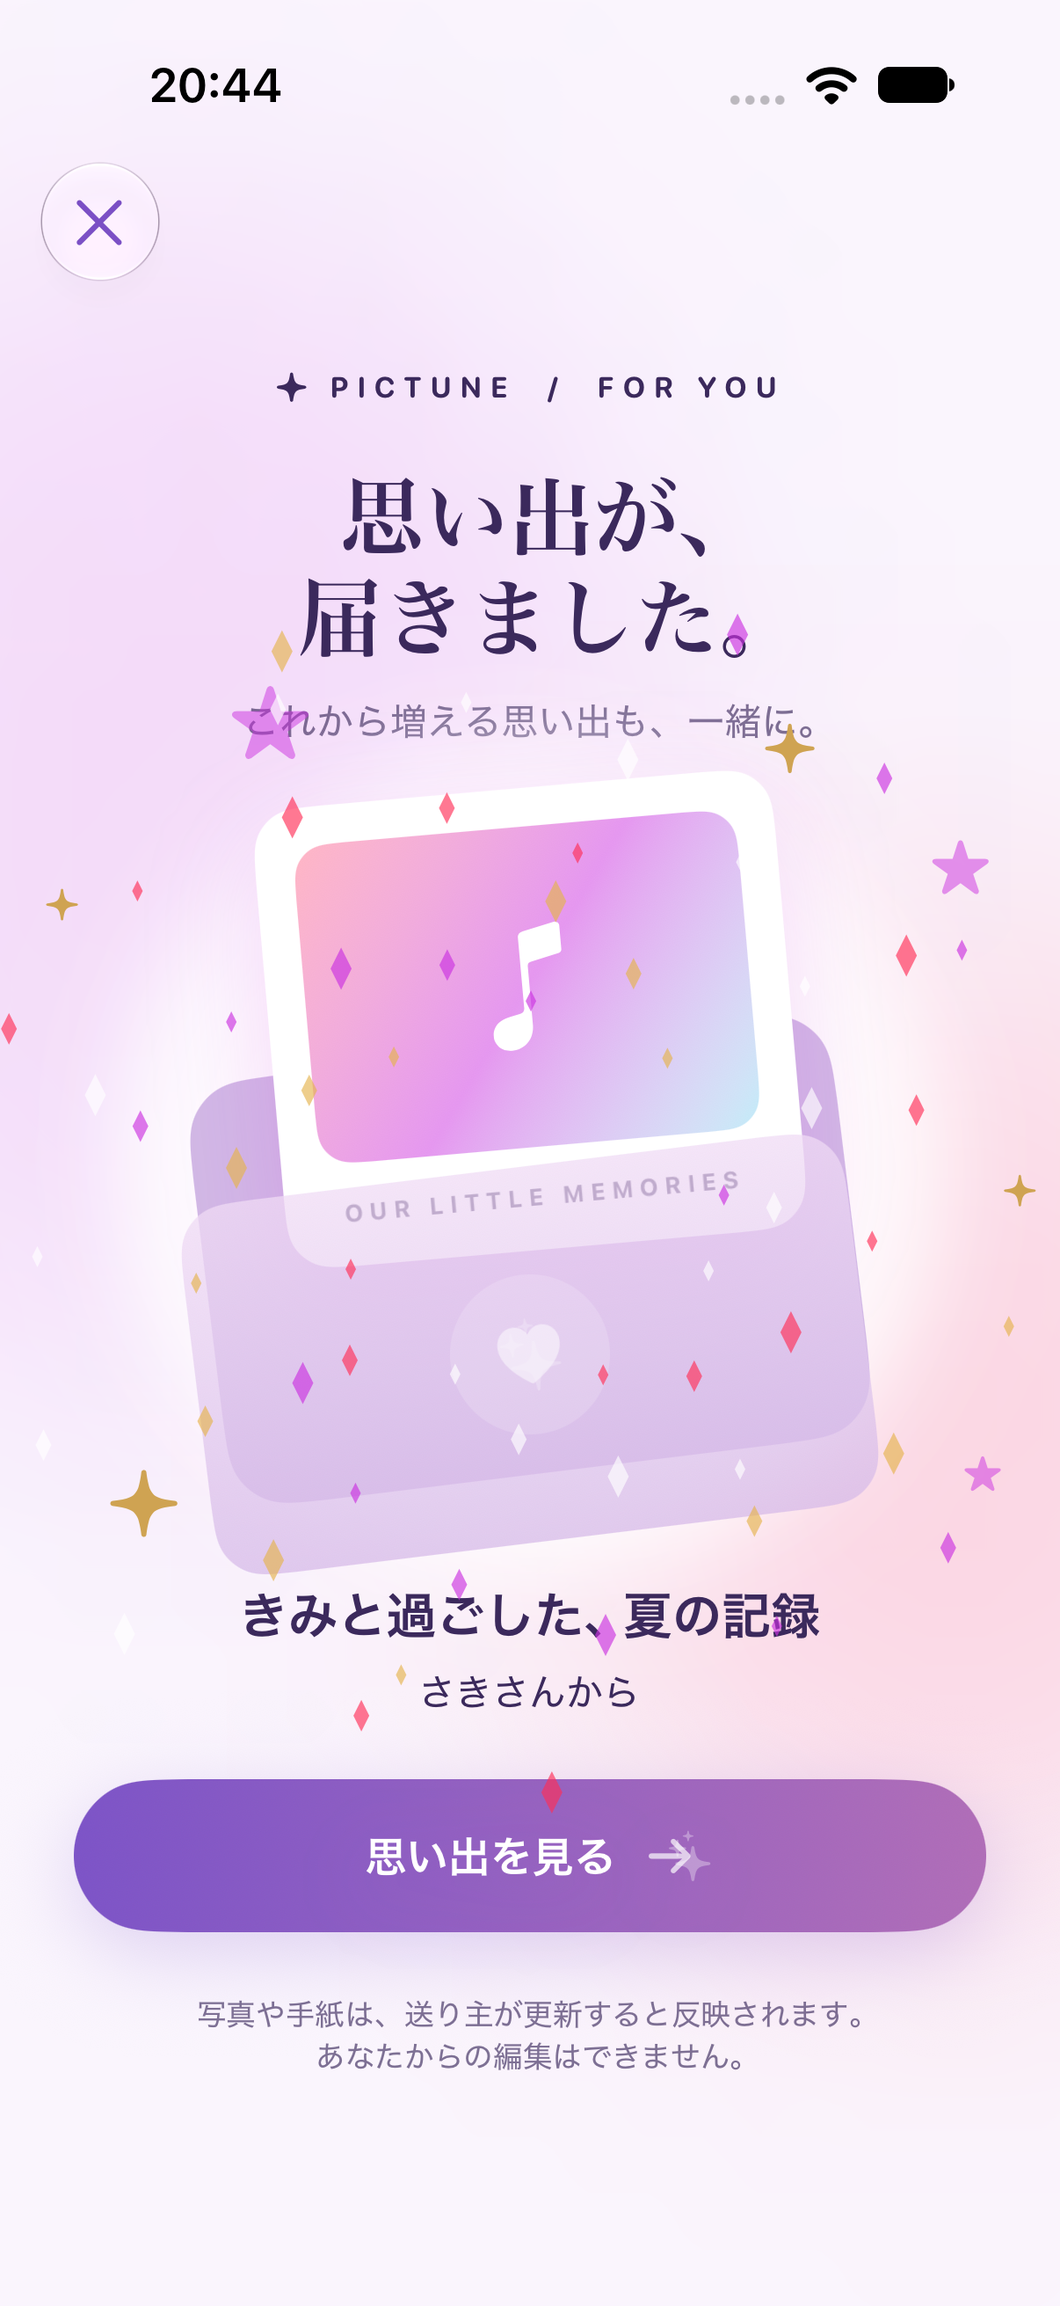
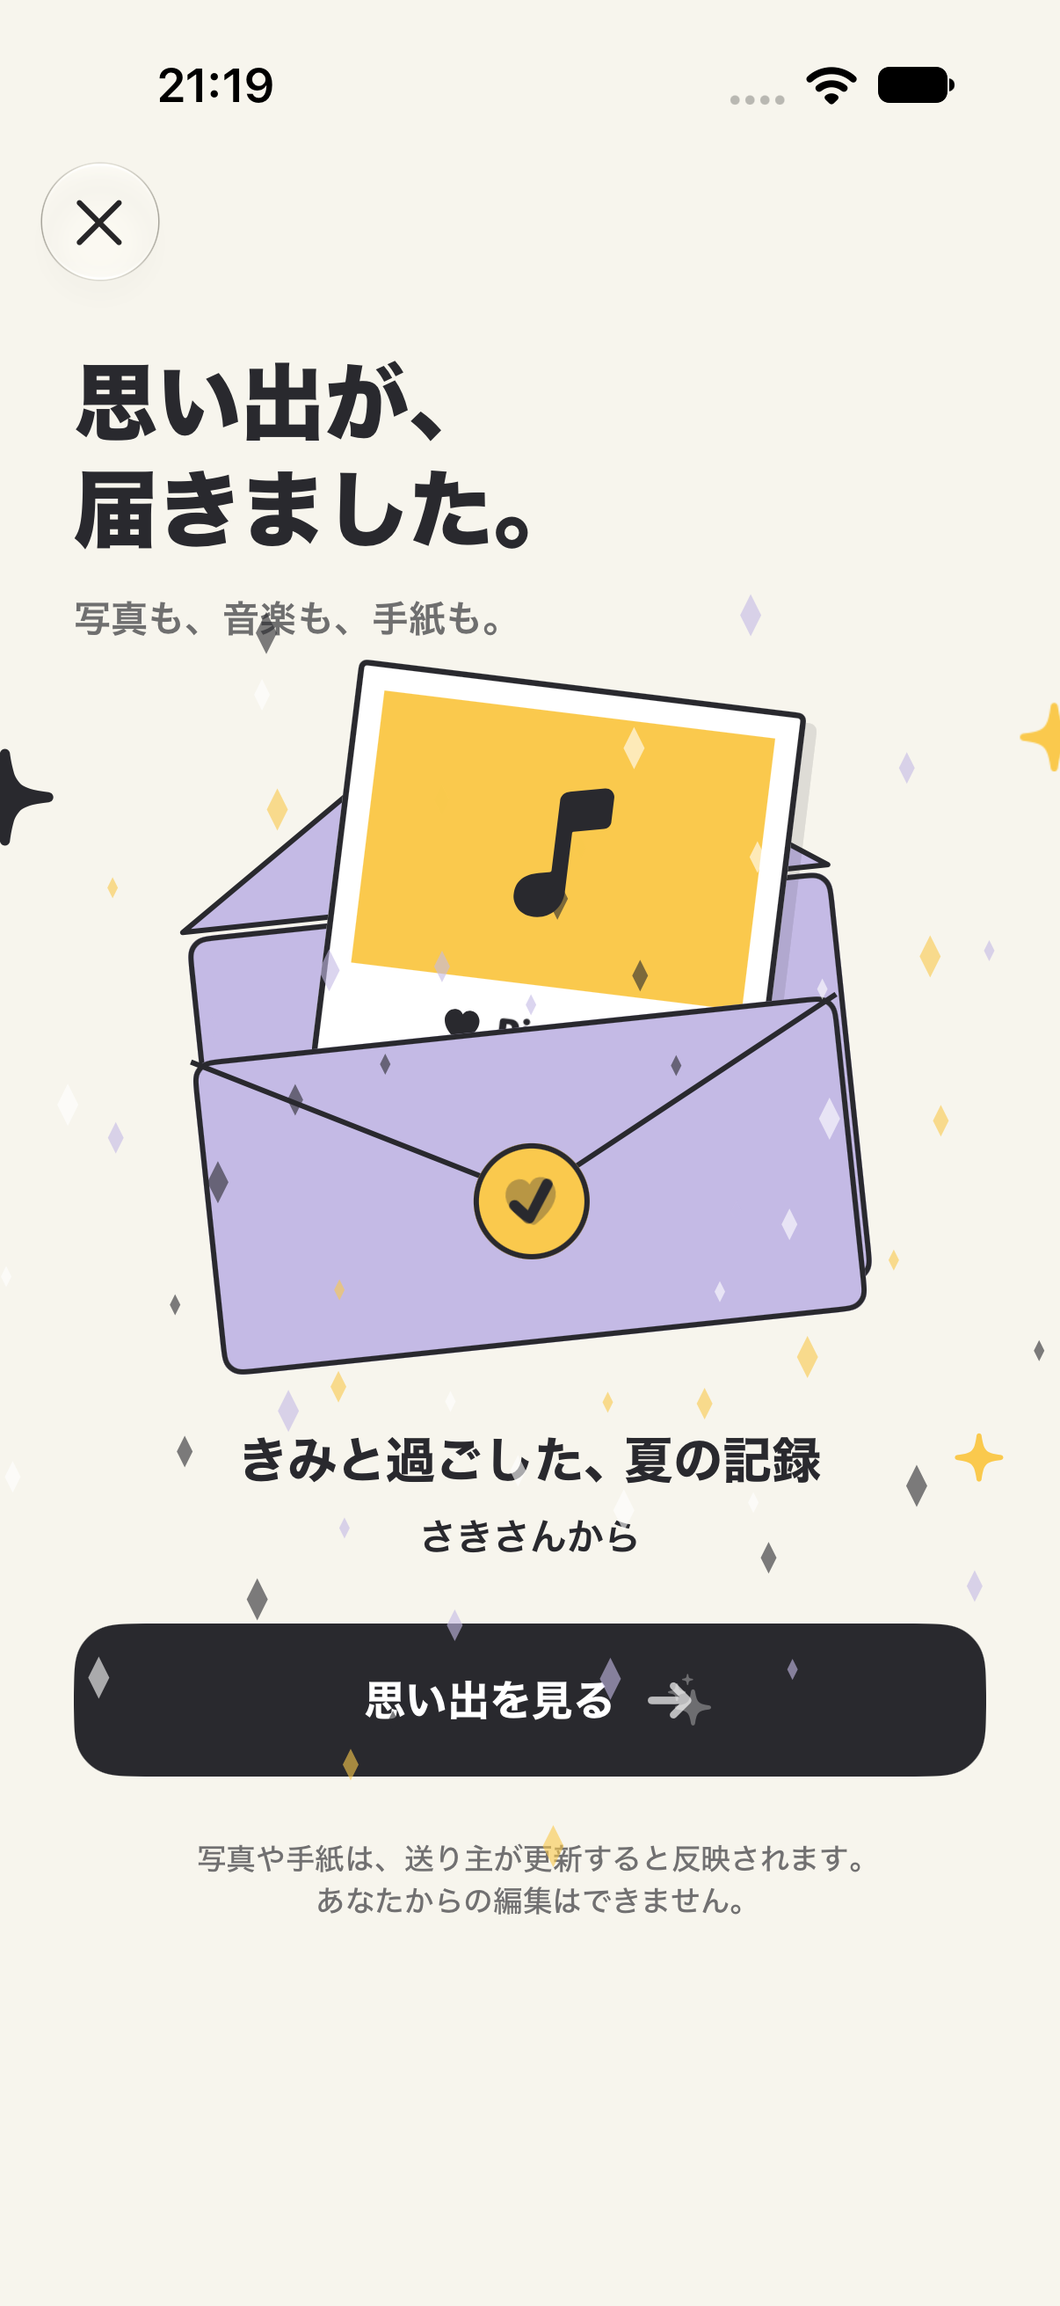
招待画面を太いゴシック体と紙の封筒のデザインに調整

diff --git a/sotsugyo/View/FolderInvitationView.swift b/sotsugyo/View/FolderInvitationView.swift
@@ -1,8 +1,10 @@
 import SwiftUI
 
 private enum GiftPalette {
-    static let ink = Color(red: 0.23, green: 0.16, blue: 0.36)
-    static let purple = Color(red: 0.49, green: 0.33, blue: 0.78)
+    static let ink = Color(red: 0.16, green: 0.16, blue: 0.18)
+    static let paper = Color(red: 0.97, green: 0.96, blue: 0.93)
+    static let lilac = Color(red: 0.77, green: 0.73, blue: 0.90)
+    static let yellow = Color(red: 0.98, green: 0.79, blue: 0.30)
 }
 
 struct FolderInvitationView: View {
@@ -24,29 +26,28 @@ struct FolderInvitationView: View {
                 GiftBackdrop()
                 ScrollView {
                     VStack(spacing: 24) {
-                        Label("PICTUNE  /  FOR YOU", systemImage: "sparkle")
-                            .font(.system(size: 11, weight: .bold, design: .rounded)).tracking(3)
-                            .padding(.top, 24)
-                        VStack(spacing: 10) {
-                            Text(opened ? "思い出が、\n届きました。" : "あなたへ、\n思い出の贈りもの。")
-                                .font(.system(size: 32, weight: .semibold, design: .serif))
-                                .multilineTextAlignment(.center)
+                        VStack(alignment: .leading, spacing: 12) {
+                            Text(opened ? "思い出が、\n届きました。" : "思い出が\n届いています。")
+                                .font(.system(size: 34, weight: .black, design: .rounded))
+                                .multilineTextAlignment(.leading)
                                 .accessibilityIdentifier("invite.heading")
-                            Text(opened ? "これから増える思い出も、一緒に。" : "写真と音楽、伝えたい気持ちを込めて。")
-                                .font(.subheadline).foregroundStyle(GiftPalette.ink.opacity(0.65))
+                            Text(opened ? "写真も、音楽も、手紙も。" : "写真と音楽、手紙をひとつに。")
+                                .font(.subheadline.weight(.semibold)).foregroundStyle(GiftPalette.ink.opacity(0.65))
                         }
+                        .frame(maxWidth: .infinity, alignment: .leading)
+                        .padding(.top, 16)
                         GiftEnvelope(opened: opened, reduceMotion: reduceMotion)
-                            .frame(height: 270)
+                            .frame(height: 250)
                         if let invitation = model.invitation {
                             VStack(spacing: 8) {
-                                Text(invitation.folder.title).font(.title3.bold()).multilineTextAlignment(.center)
-                                Text("\(invitation.senderName)さんから").font(.subheadline)
+                                Text(invitation.folder.title).font(.system(.title3, design: .rounded, weight: .heavy)).multilineTextAlignment(.center)
+                                Text("\(invitation.senderName)さんから").font(.subheadline.weight(.semibold))
                             }
                             .padding(.horizontal)
                         }
                         controls
                         Text("写真や手紙は、送り主が更新すると反映されます。\nあなたからの編集はできません。")
-                            .font(.caption).foregroundStyle(GiftPalette.ink.opacity(0.65))
+                            .font(.caption.weight(.medium)).foregroundStyle(GiftPalette.ink.opacity(0.65))
                             .multilineTextAlignment(.center)
                     }
                     .padding(.horizontal, 28).padding(.bottom, 32)
@@ -74,13 +75,13 @@ struct FolderInvitationView: View {
             .sensoryFeedback(.success, trigger: opened)
             .interactiveDismissDisabled(model.isWorking && model.invitation != nil)
         }
-        .tint(GiftPalette.purple)
+        .tint(GiftPalette.ink)
     }
 
     @ViewBuilder private var controls: some View {
         if let error = model.error {
             VStack(spacing: 12) {
-                Text(error).font(.subheadline).multilineTextAlignment(.center).accessibilityIdentifier("invite.error")
+                Text(error).font(.subheadline.weight(.medium)).multilineTextAlignment(.center).accessibilityIdentifier("invite.error")
                 Button("もう一度試す") { Task { if model.invitation == nil { await model.load(link) } else { await model.receive() } } }
             }
         } else if model.invitation == nil {
@@ -94,10 +95,9 @@ struct FolderInvitationView: View {
                     Text(model.isWorking ? "受け取り中…" : opened ? "思い出を見る" : "開いて受け取る")
                     if !model.isWorking { Image(systemName: opened ? "arrow.right" : "sparkles") }
                 }
-                .font(.headline).frame(maxWidth: .infinity, minHeight: 58)
+                .font(.system(.headline, design: .rounded, weight: .heavy)).frame(maxWidth: .infinity, minHeight: 58)
                 .foregroundStyle(.white)
-                .background(LinearGradient(colors: [GiftPalette.purple, Color(red: 0.69, green: 0.43, blue: 0.72)], startPoint: .leading, endPoint: .trailing), in: Capsule())
-                .shadow(color: GiftPalette.purple.opacity(0.23), radius: 15, y: 8)
+                .background(GiftPalette.ink, in: RoundedRectangle(cornerRadius: 18))
             }
             .buttonStyle(.plain).disabled(model.isWorking)
             .accessibilityIdentifier("invite.open")
@@ -121,21 +121,21 @@ struct FolderInviteShareView: View {
                 GiftBackdrop()
                 ScrollView {
                     VStack(spacing: 24) {
-                        Label("PICTUNE  /  WITH LOVE", systemImage: "sparkle")
-                            .font(.system(size: 11, weight: .bold)).tracking(3).padding(.top, 30)
-                        Text("離れていても、\n思い出は一緒に。")
-                            .font(.system(size: 32, weight: .semibold, design: .serif)).multilineTextAlignment(.center)
-                        GiftEnvelope(opened: false, reduceMotion: true).scaleEffect(0.88).frame(height: 240)
-                        Text(folderName).font(.title3.bold())
+                        Text("思い出を\nリンクで送る。")
+                            .font(.system(size: 34, weight: .black, design: .rounded))
+                            .frame(maxWidth: .infinity, alignment: .leading)
+                            .padding(.top, 12)
+                        GiftEnvelope(opened: false, reduceMotion: true).scaleEffect(0.88).frame(height: 210)
+                        Text(folderName).font(.system(.title3, design: .rounded, weight: .heavy))
                         Text("リンクを送って、写真・音楽・手紙を共有できます。\n受け取った後の変更も、相手に届きます。")
-                            .font(.subheadline).multilineTextAlignment(.center)
+                            .font(.subheadline.weight(.medium)).multilineTextAlignment(.center)
                         if model.isWorking { ProgressView("リンクを準備しています…") }
                         else if let invitation = model.invitation, !model.isRevoked {
                             ShareLink(item: invitation.link.url, subject: Text("\(folderName)への招待"), message: Text("PicTuneで思い出を共有しましょう。")) {
                                 Label("招待リンクを送る", systemImage: "square.and.arrow.up").foregroundStyle(.white)
-                                    .font(.headline).frame(maxWidth: .infinity, minHeight: 54)
+                                    .font(.system(.headline, design: .rounded, weight: .heavy)).frame(maxWidth: .infinity, minHeight: 54)
                             }
-                            .buttonStyle(.borderedProminent).buttonBorderShape(.capsule)
+                            .buttonStyle(.borderedProminent).buttonBorderShape(.roundedRectangle(radius: 18))
                             .accessibilityIdentifier("invite.share")
                             Text("\(invitation.expiresAt.formatted(date: .abbreviated, time: .omitted))まで参加できます。\nリンクを知っているログイン済みの方が閲覧できます。")
                                 .font(.caption).multilineTextAlignment(.center)
@@ -144,13 +144,13 @@ struct FolderInviteShareView: View {
                         } else {
                             if model.isRevoked { Text("リンクを無効にしました。") }
                             Button(model.isRevoked ? "新しい招待リンクを作る" : "招待リンクを作る") { Task { await model.create(folderID: folderID) } }
-                                .buttonStyle(.borderedProminent).controlSize(.large)
+                                .font(.headline.weight(.heavy)).buttonStyle(.borderedProminent).controlSize(.large)
                         }
                         if let error = model.error { Text(error).font(.footnote).foregroundStyle(.red) }
                     }.padding(28).frame(maxWidth: 540).frame(maxWidth: .infinity)
                 }
             }
-            .foregroundStyle(GiftPalette.ink).tint(GiftPalette.purple)
+            .foregroundStyle(GiftPalette.ink).tint(GiftPalette.ink)
             .navigationTitle("思い出を贈る").navigationBarTitleDisplayMode(.inline)
             .toolbar { ToolbarItem(placement: .cancellationAction) { Button("閉じる") { dismiss() }.disabled(model.isWorking) } }
             .confirmationDialog("招待リンクを無効にしますか？", isPresented: $confirmRevoke, titleVisibility: .visible) {
@@ -163,12 +163,7 @@ struct FolderInviteShareView: View {
 
 private struct GiftBackdrop: View {
     var body: some View {
-        ZStack {
-            Color(red: 0.98, green: 0.96, blue: 0.99)
-            Ellipse().fill(Color.purple.opacity(0.13)).frame(width: 360, height: 460).blur(radius: 60).offset(x: -130, y: -130)
-            Ellipse().fill(Color.pink.opacity(0.16)).frame(width: 300, height: 380).blur(radius: 70).offset(x: 160, y: 100)
-            Circle().fill(Color.white.opacity(0.8)).frame(width: 260).blur(radius: 40)
-        }.ignoresSafeArea()
+        GiftPalette.paper.ignoresSafeArea()
     }
 }
 
@@ -177,38 +172,78 @@ private struct GiftEnvelope: View {
     let reduceMotion: Bool
     var body: some View {
         ZStack {
-            Circle().fill(.white.opacity(0.8)).frame(width: 220, height: 220).blur(radius: 12).scaleEffect(opened ? 1.4 : 1)
-            RoundedRectangle(cornerRadius: 24).fill(Color(red: 0.82, green: 0.72, blue: 0.9))
-                .frame(width: 246, height: 162).rotationEffect(.degrees(-7)).offset(y: 36)
-            VStack(spacing: 12) {
+            // Flat paper layers keep the opening motion legible without a glowing backdrop.
+            RoundedRectangle(cornerRadius: 8)
+                .fill(GiftPalette.lilac)
+                .overlay { RoundedRectangle(cornerRadius: 8).strokeBorder(GiftPalette.ink, lineWidth: 2) }
+                .frame(width: 246, height: 156)
+                .rotationEffect(.degrees(-6)).offset(y: 28)
+            EnvelopeFlap()
+                .fill(GiftPalette.lilac)
+                .overlay { EnvelopeFlap().stroke(GiftPalette.ink, style: StrokeStyle(lineWidth: 2, lineJoin: .round)) }
+                .frame(width: 246, height: 84)
+                .rotation3DEffect(.degrees(opened ? 180 : 0), axis: (x: 1, y: 0, z: 0), anchor: .top)
+                .rotationEffect(.degrees(-6)).offset(x: -5, y: -10)
+            VStack(spacing: 10) {
                 ZStack {
-                    RoundedRectangle(cornerRadius: 12).fill(LinearGradient(colors: [.pink.opacity(0.35), .purple.opacity(0.5), .cyan.opacity(0.3)], startPoint: .topLeading, endPoint: .bottomTrailing))
-                    Image(systemName: "music.note").font(.system(size: 44, weight: .light)).foregroundStyle(.white)
-                }.frame(height: 108)
-                Text("OUR LITTLE MEMORIES").font(.system(size: 8, weight: .bold)).tracking(2)
+                    Rectangle().fill(GiftPalette.yellow)
+                    Image(systemName: "music.note")
+                        .font(.system(size: 46, weight: .black)).foregroundStyle(GiftPalette.ink)
+                }.frame(height: 96)
+                HStack(spacing: 5) {
+                    Image(systemName: "heart.fill")
+                    Text("PicTune").fontWeight(.black)
+                }.font(.system(size: 12, weight: .bold, design: .rounded))
             }
-            .padding(13).background(.white, in: RoundedRectangle(cornerRadius: 16))
-            .frame(width: 176).rotationEffect(.degrees(opened ? -5 : 5))
-            .offset(y: opened ? -48 : 12).scaleEffect(opened ? 1.12 : 0.9)
-            .shadow(color: .purple.opacity(0.18), radius: 20, y: 12)
-            RoundedRectangle(cornerRadius: 20)
-                .fill(LinearGradient(colors: [Color(red: 0.94, green: 0.86, blue: 0.96), Color(red: 0.84, green: 0.73, blue: 0.91)], startPoint: .top, endPoint: .bottom))
-                .frame(width: 254, height: 142).overlay {
-                    Image(systemName: opened ? "heart.fill" : "sparkles")
-                        .font(.system(size: 25, weight: .light)).foregroundStyle(.white)
-                        .padding(17).background(.white.opacity(0.22), in: Circle())
-                }.rotationEffect(.degrees(-7)).offset(y: opened ? 72 : 68)
-                .opacity(opened ? 0.75 : 1)
-            ForEach(0..<7) { index in
-                Image(systemName: index.isMultiple(of: 2) ? "sparkle" : "star.fill")
-                    .font(.system(size: CGFloat(9 + index % 3 * 5)))
-                    .foregroundStyle(index.isMultiple(of: 2) ? Color(red: 0.81, green: 0.64, blue: 0.32) : Color.purple.opacity(0.5))
-                    .offset(x: CGFloat([-126, 116, -104, 122, 70, -70, 132][index]), y: CGFloat([-70, -80, 91, 83, -112, -119, 7][index]))
-                    .scaleEffect(opened && !reduceMotion ? 1.4 : 1)
+            .padding(10)
+            .background(.white, in: RoundedRectangle(cornerRadius: 3))
+            .overlay { RoundedRectangle(cornerRadius: 3).strokeBorder(GiftPalette.ink, lineWidth: 2) }
+            .frame(width: 158)
+            .rotationEffect(.degrees(opened ? 7 : 3))
+            .offset(x: opened ? 10 : 0, y: opened ? -52 : 5)
+            .scaleEffect(opened ? 1.08 : 0.94)
+            .shadow(color: GiftPalette.ink.opacity(0.12), radius: 0, x: 4, y: 4)
+            RoundedRectangle(cornerRadius: 8)
+                .fill(GiftPalette.lilac)
+                .overlay {
+                    Path { path in
+                        path.move(to: CGPoint(x: 0, y: 0))
+                        path.addLine(to: CGPoint(x: 123, y: 64))
+                        path.addLine(to: CGPoint(x: 246, y: 0))
+                    }.stroke(GiftPalette.ink, lineWidth: 2)
+                }
+                .overlay { RoundedRectangle(cornerRadius: 8).strokeBorder(GiftPalette.ink, lineWidth: 2) }
+                .overlay {
+                    Image(systemName: opened ? "checkmark" : "heart.fill")
+                        .font(.system(size: 18, weight: .black))
+                        .frame(width: 44, height: 44)
+                        .background(GiftPalette.yellow, in: Circle())
+                        .overlay { Circle().strokeBorder(GiftPalette.ink, lineWidth: 2) }
+                        .offset(y: 6)
+                }
+                .frame(width: 246, height: 120)
+                .rotationEffect(.degrees(-6)).offset(y: 57)
+            ForEach(0..<3) { index in
+                Image(systemName: "sparkle")
+                    .font(.system(size: CGFloat([24, 17, 12][index]), weight: .bold))
+                    .foregroundStyle(index == 0 ? GiftPalette.ink : GiftPalette.yellow)
+                    .offset(x: CGFloat([-132, 132, 113][index]), y: CGFloat([-60, -75, 106][index]))
+                    .scaleEffect(opened && !reduceMotion ? 1.5 : 1)
             }
         }
         .accessibilityElement(children: .ignore)
         .accessibilityLabel(opened ? "開いた思い出の封筒" : "思い出を包んだ封筒")
+    }
+}
+
+private struct EnvelopeFlap: Shape {
+    func path(in rect: CGRect) -> Path {
+        Path { path in
+            path.move(to: CGPoint(x: rect.minX, y: rect.minY))
+            path.addLine(to: CGPoint(x: rect.midX, y: rect.maxY))
+            path.addLine(to: CGPoint(x: rect.maxX, y: rect.minY))
+            path.closeSubpath()
+        }
     }
 }
 
@@ -233,7 +268,7 @@ private struct GiftSparkles: View {
                     star.addLine(to: CGPoint(x: point.x, y: point.y + radius * 2))
                     star.addLine(to: CGPoint(x: point.x - radius, y: point.y)); star.closeSubpath()
                     context.opacity = max(0, 1 - elapsed / 2.5)
-                    context.fill(star, with: .color([Color.purple, .pink, Color(red: 0.9, green: 0.7, blue: 0.3), .white][index % 4]))
+                    context.fill(star, with: .color([GiftPalette.lilac, GiftPalette.yellow, GiftPalette.ink, .white][index % 4]))
                 }
             }
         }

diff --git a/docs/verification/invite-links/README.md b/docs/verification/invite-links/README.md
@@ -4,6 +4,8 @@
 
 ## 画面
 
+招待・送信画面は太いゴシック体、無地の背景、黒いボタンへ調整しました。英字の飾り見出しとグラデーションをなくし、輪郭のある紙の封筒・チェキで表現しています。開封時のカードの動きと粒子の演出は残しています。
+
 Xcode 27.2 beta 2 / iPhone 18 Pro / iOS 27.0 の専用シミュレーター「PicTune Model Review」。写真・送り主名は確認用の架空データです。
 
 | 招待を受け取る | 開封時の演出 | 招待リンクを送る |
@@ -20,6 +22,7 @@ Xcode 27.2 beta 2 / iPhone 18 Pro / iOS 27.0 の専用シミュレーター「Pi
 - 見た目の調整後、開封・送信のUIテスト2件を再実行して成功。最終の受信一覧リスナー・暗号学的トークン生成を含めてビルドと単体43件を再実行し成功。
 - Firestore/Storageエミュレーターのアクセス制御テスト9件成功。匿名拒否、招待一覧取得拒否、不正な参加・画像参照の拒否、同一招待の再参加、手紙・曲の閲覧と編集拒否、期限切れ・無効化・元フォルダ削除、共有画像、QRによる相手への保存（写真未作成の新規ユーザーを含む）、所有者付きの画像アップロードを確認。
 - 最新mainの写真詳細改善を統合後、単体43件と招待作成・開封・写真詳細のUIテスト3件を再実行して成功。
+- 太字・無地背景へのデザイン調整後も、招待作成・無効化、期限切れ、通信失敗、開封と同期のUIテスト4件を再実行して成功。上の画面と録画は調整後のものです。
 - `git diff --check` 成功。
 
 ## 本番への反映
